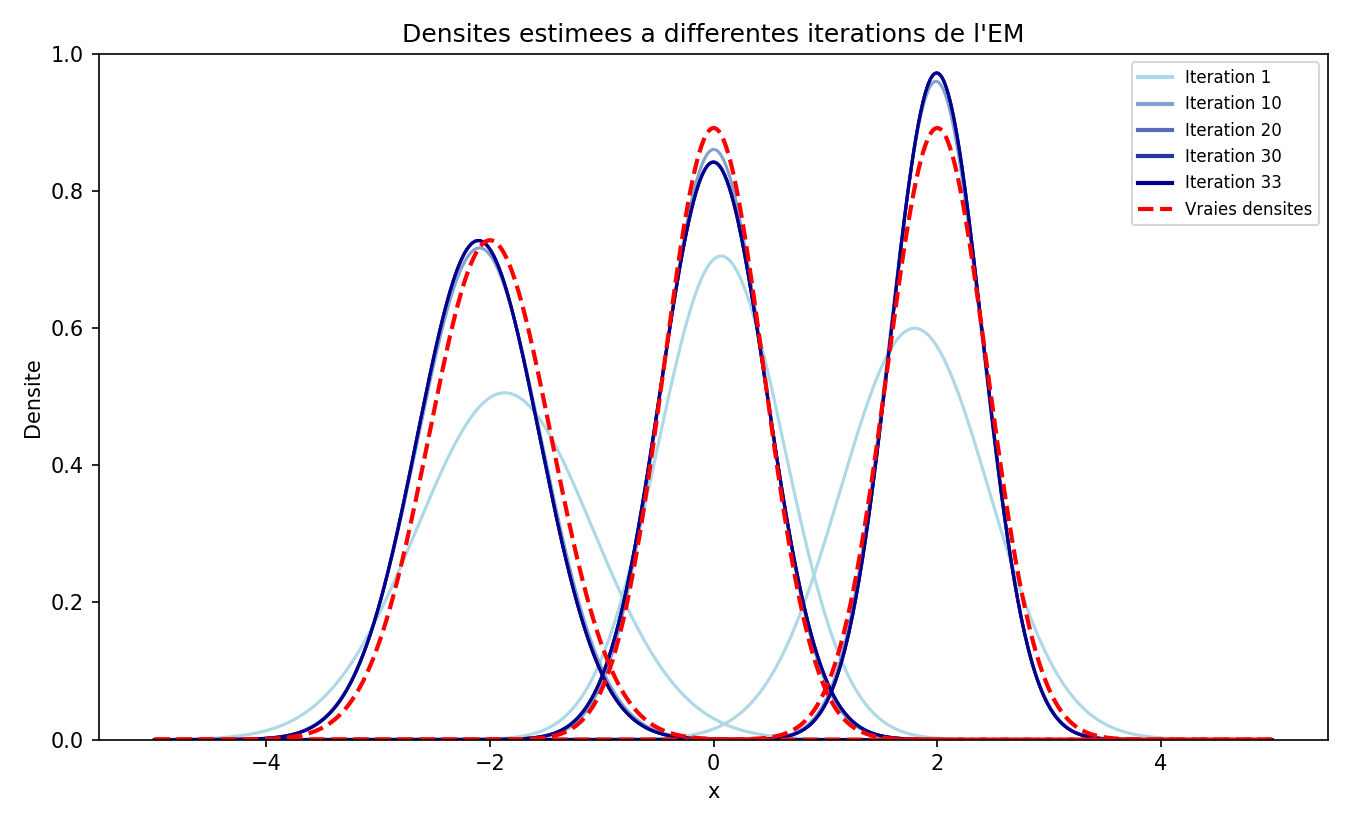
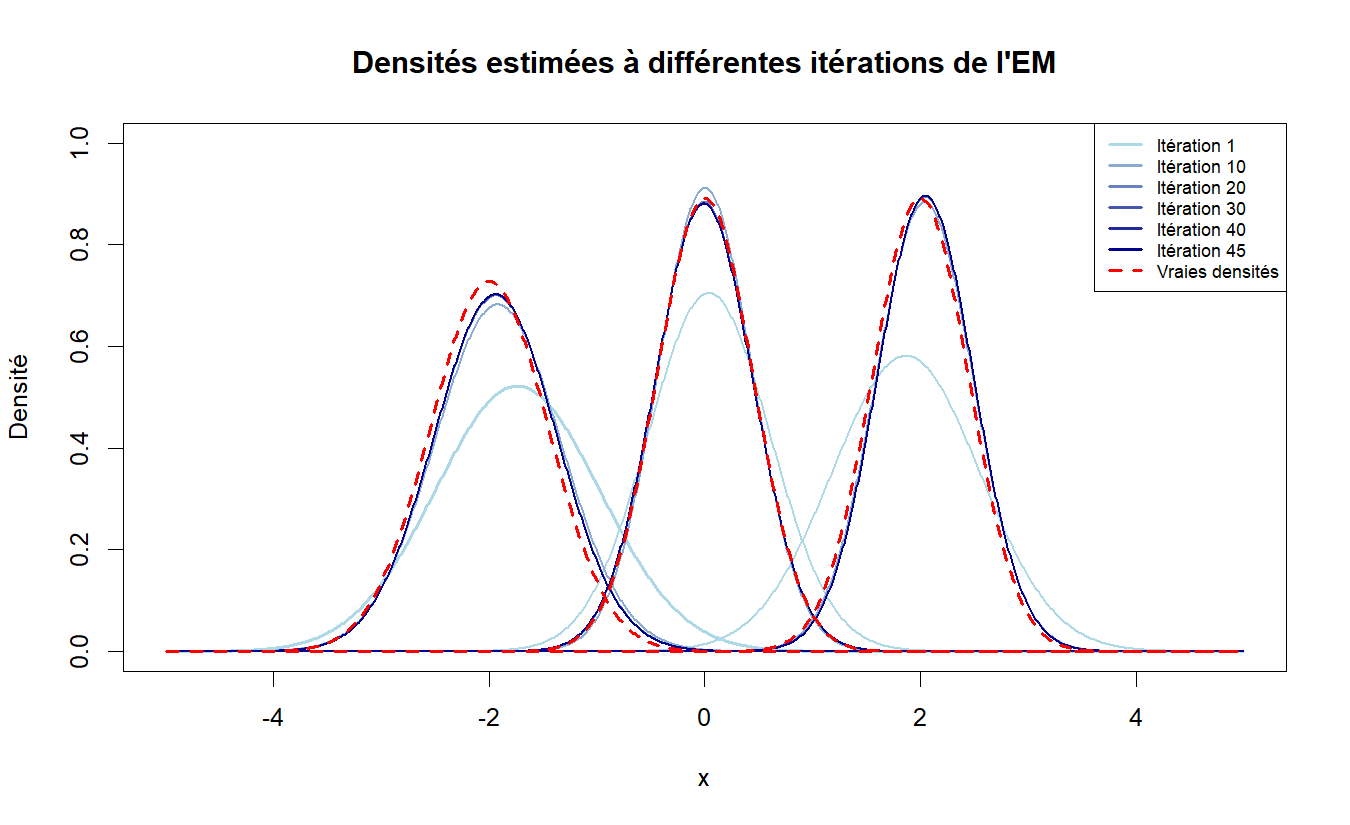
Ajoute les figures et les liens vers les PDF

diff --git a/README.md b/README.md
@@ -94,9 +94,9 @@ avec un plafond de **200 itérations**. Aucun test de dégénérescence n'est im
 
 ## Reproductibilité
 
-- **R** — code en base R uniquement (`dnorm`, `rnorm`, `runif`, `ks.test`), aucun package externe requis. Testé sur R 4.x.
-- **Graine** — `set.seed(42)` est fixée avant chaque simulation, les résultats sont donc reproductibles à l'identique.
-- **Temps d'exécution** — environ 3 secondes pour n = 1000, près d'une minute pour n = 40 000 (mesures du rapport).
+- **R** — code en base R uniquement (`dnorm`, `rnorm`, `runif`, `ks.test`), aucun package externe requis. Testé sur R 4.4.2.
+- **Données** — les échantillons sont simulés à chaque exécution, sans graine fixée : les valeurs obtenues varient donc légèrement d'un run à l'autre autour de celles reportées ici.
+- **Temps d'exécution** — environ 3 secondes pour n = 1000, près d'une minute pour n = 40 000.
 
 ---
 
@@ -176,8 +176,6 @@ Rscript code/em_3_gaussiennes.R
 Rscript code/em_5_gaussiennes.R
 Rscript code/em_3_gaussiennes_proches.R
 ```
-
-Le premier script régénère `figures/convergence_em.png`.
 
 Pour l'application Iris, le script lit `Iris.csv` dans son propre dossier :
 
